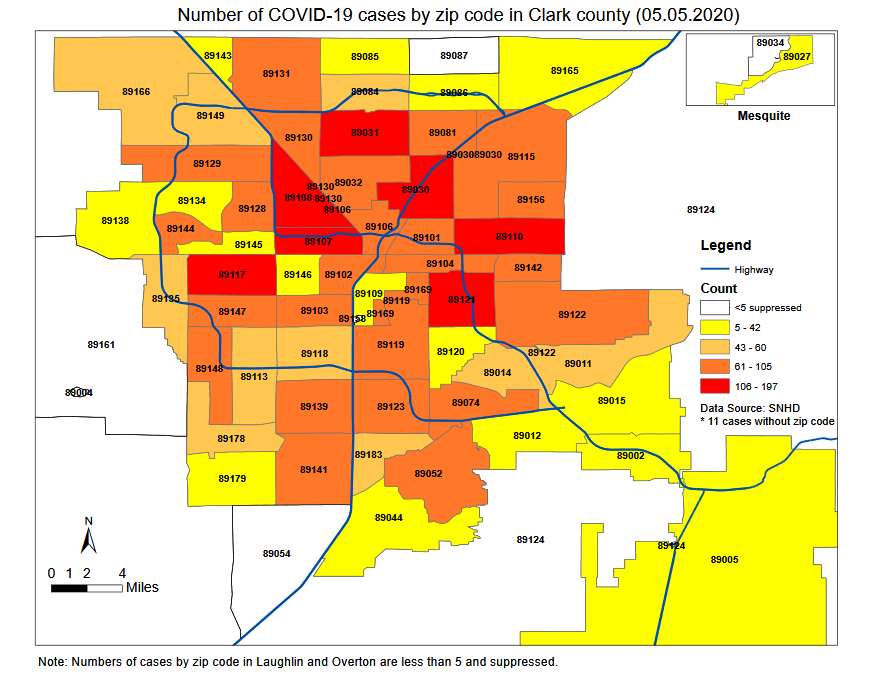
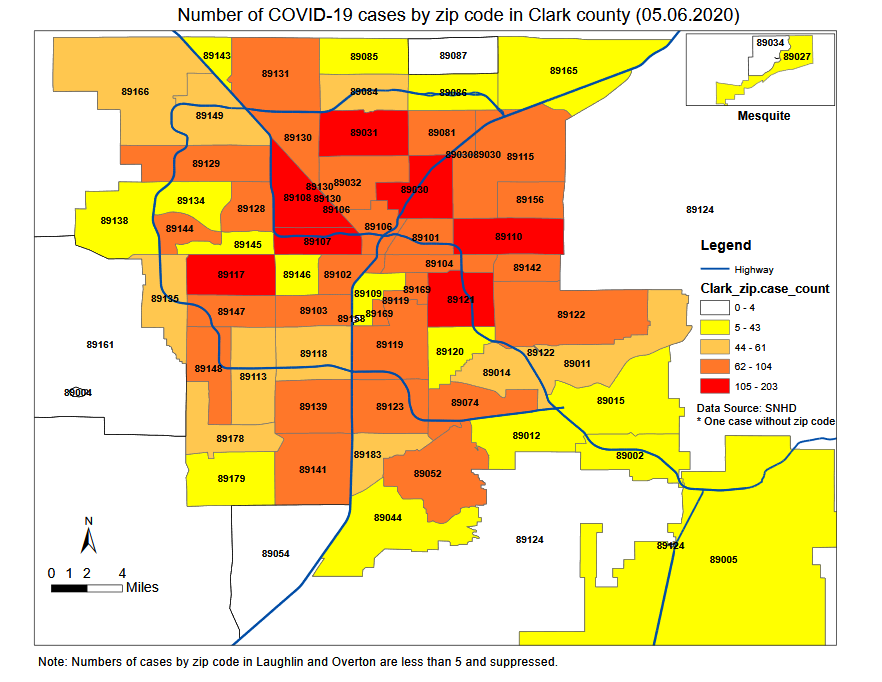
add stats

diff --git a/src/pages/nevada.js b/src/pages/nevada.js
@@ -77,6 +77,7 @@ class NevadaPage extends Component {
         '05/03/20',
         '05/04/20',
         '05/05/20',
+        '05/06/20',
       ],
       datasets: [
         {
@@ -145,6 +146,7 @@ class NevadaPage extends Component {
             5491,
             5594,
             5633,
+            5766,
           ],
           fill: false, // Don't fill area under the line
           backgroundColor: '#933A16', // Line color
@@ -216,6 +218,7 @@ class NevadaPage extends Component {
         '05/03/20',
         '05/04/20',
         '05/05/20',
+        '05/06/20',
       ],
       datasets: [
         {
@@ -284,6 +287,7 @@ class NevadaPage extends Component {
             68,
             103,
             39,
+            133,
           ],
           fill: false, // Don't fill area under the line
           backgroundColor: '#933A16', // Line color
@@ -355,6 +359,7 @@ class NevadaPage extends Component {
         '05/03/20',
         '05/04/20',
         '05/05/20',
+        '05/06/20',
       ],
       datasets: [
         {
@@ -423,6 +428,7 @@ class NevadaPage extends Component {
             260,
             264,
             275,
+            285,
           ],
           backgroundColor: 'maroon',
         },
@@ -482,6 +488,7 @@ class NevadaPage extends Component {
         '05/03/20',
         '05/04/20',
         '05/05/20',
+        '05/06/20',
       ],
       datasets: [
         {
@@ -539,6 +546,7 @@ class NevadaPage extends Component {
             5,
             4,
             11,
+            10,
           ],
         }
       ],
@@ -589,6 +597,7 @@ class NevadaPage extends Component {
         '05/03/20',
         '05/04/20',
         '05/05/20',
+        '05/06/20',
       ],
       datasets: [
         {
@@ -638,6 +647,7 @@ class NevadaPage extends Component {
             1003,
             1025,
             1051,
+            1067,
           ],
         },
       ],
@@ -687,6 +697,7 @@ class NevadaPage extends Component {
           '05/03/20',
           '05/04/20',
           '05/05/20',
+          '05/06/20',
         ],
         datasets: [
         {
@@ -736,6 +747,7 @@ class NevadaPage extends Component {
             1,
             22,
             26,
+            16,
           ],
         },
       ],
@@ -806,6 +818,7 @@ class NevadaPage extends Component {
         '05/03/20',
         '05/04/20',
         '05/05/20',
+        '05/06/20',
       ],
       datasets: [
         {
@@ -874,6 +887,7 @@ class NevadaPage extends Component {
             223,
             226,
             238,
+            245,
           ],
           backgroundColor: 'maroon',
         },
@@ -933,6 +947,7 @@ class NevadaPage extends Component {
         '05/03/20',
         '05/04/20',
         '05/05/20',
+        '05/06/20',
       ],
       datasets: [
         {
@@ -990,6 +1005,7 @@ class NevadaPage extends Component {
             5,
             3,
             12,
+            7,
           ]
         }
       ],
@@ -1000,7 +1016,7 @@ class NevadaPage extends Component {
       datasets: [
         {
           label: 'Age of Cases',
-          data: [23, 115, 273, 1802, 1234, 1023],
+          data: [28, 116, 280, 1851, 1258, 1037],
           backgroundColor: [
             'rgb(54, 162, 235)', //blue
             'rgb(255, 99, 132)', //salmon
@@ -1018,7 +1034,7 @@ class NevadaPage extends Component {
       datasets: [
         {
           label: 'Sex',
-          data: [2283, 2097, 93],
+          data: [2339, 2144, 90],
           backgroundColor: [
             'rgb(255, 99, 132)',
             'rgb(54, 162, 235)',
@@ -1084,7 +1100,7 @@ class NevadaPage extends Component {
                   </div>
                   <div className="card-value pt-4">
                     <p className="is-dark-text-light">Total</p>
-                    <h1>49,275</h1>
+                    <h1>51,357</h1>
                   </div>
                 </div>
                 <div className="card grid-card is-card-dark">
@@ -1095,7 +1111,7 @@ class NevadaPage extends Component {
                   </div>
                   <div className="card-value pt-4">
                     <p className="is-dark-text-light">Total</p>
-                    <h1>43,612</h1>
+                    <h1>45,591</h1>
                   </div>
                 </div>
               </div>
@@ -1135,7 +1151,7 @@ class NevadaPage extends Component {
                   </div>
                   <div className="card-value pt-4">
                     <p className="is-dark-text-light">Total</p>
-                    <h1>5,633</h1>
+                    <h1>5,766</h1>
                   </div>
                 </div>
                 <div className="card grid-card is-card-dark">
@@ -1146,7 +1162,7 @@ class NevadaPage extends Component {
                   </div>
                   <div className="card-value pt-4">
                     <p className="is-dark-text-light">Total</p>
-                    <h1>275</h1>
+                    <h1>285</h1>
                   </div>
                 </div>
               </div>
@@ -1187,7 +1203,7 @@ class NevadaPage extends Component {
                     </div>
                     <div className="card-value pt-4">
                       <p className="is-dark-text-light">Total</p>
-                      <h1>4,473</h1>
+                      <h1>4,573</h1>
                     </div>
                   </div>
                   <div className="card grid-card is-card-dark">
@@ -1198,7 +1214,7 @@ class NevadaPage extends Component {
                     </div>
                     <div className="card-value pt-4">
                       <p className="is-dark-text-light">Total</p>
-                      <h1>1,051</h1>
+                      <h1>1,067</h1>
                     </div>
                   </div>
                 </div>
@@ -1237,7 +1253,7 @@ class NevadaPage extends Component {
                     </div>
                     <div className="card-value pt-4">
                       <p className="is-dark-text-light">Total</p>
-                      <h1>238</h1>
+                      <h1>245</h1>
                     </div>
                   </div>
                   <div className="card grid-card is-card-dark">
@@ -1248,7 +1264,7 @@ class NevadaPage extends Component {
                     </div>
                     <div className="card-value pt-4">
                       <p className="is-dark-text-light">Total</p>
-                      <h1>3,659</h1>
+                      <h1>3,768</h1>
                     </div>
                   </div>
                 </div>
